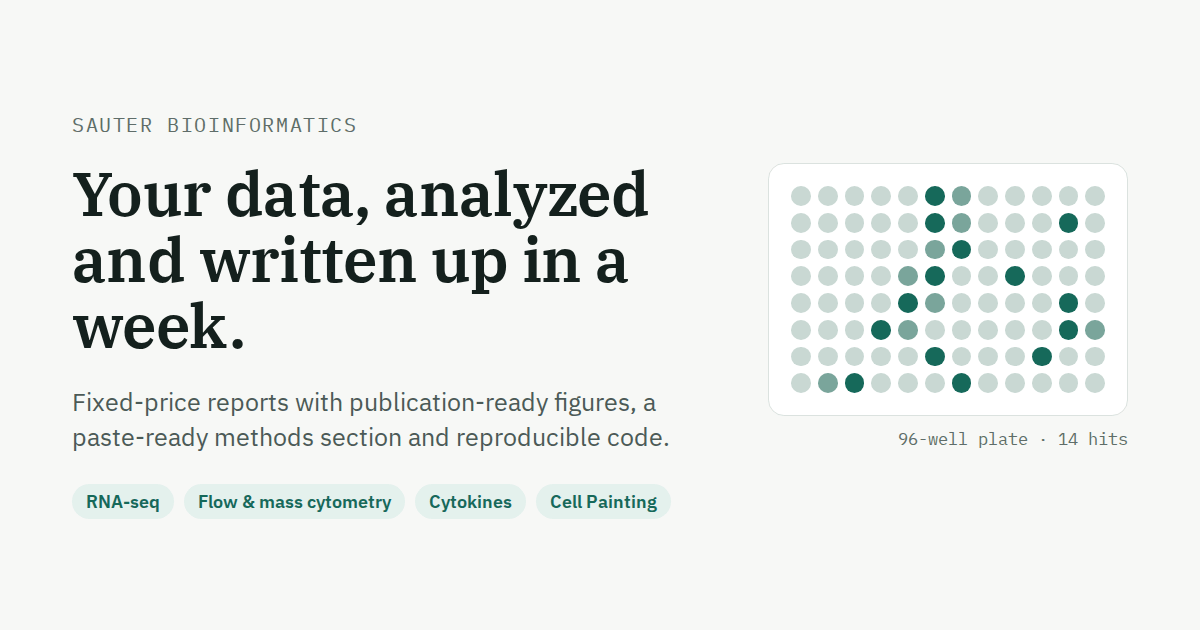
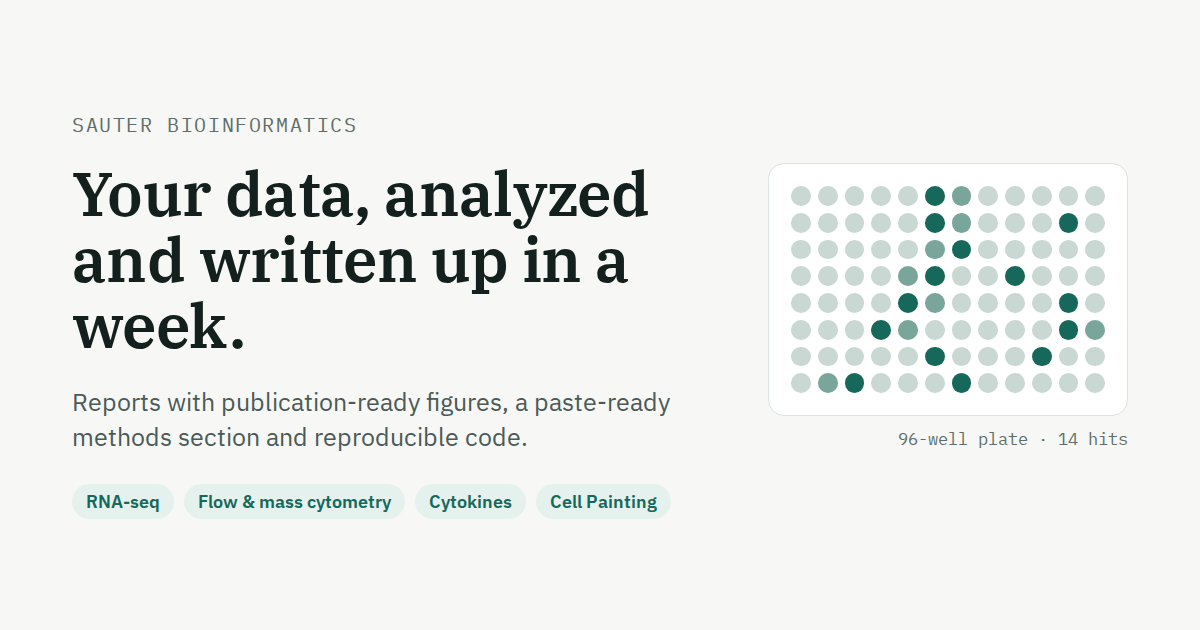
Bioinformatics: remove all pricing; keep the services, examples and contact
Price table becomes 'Typical projects' (scope only); 'fixed-price' and 'fixed
quote' wording removed from the page, its search/preview text and image, and the
home and Projects lines.

Claude-Session: https://claude.ai/code/session_01YNfdjQmtG3bPi1ARogC2dZ

Changed region(s): [[0.0617, 0.6032, 0.555, 0.7238]]

diff --git a/bioinformatics/index.html b/bioinformatics/index.html
@@ -5,9 +5,9 @@
 <meta name="viewport" content="width=device-width, initial-scale=1, viewport-fit=cover">
 <title>Sauter Bioinformatics · Jake Sauter</title>
 <meta name="author" content="Jake Sauter">
-<meta name="description" content="Independent analysis for sequencing, cytometry, cytokine and high-content imaging data: fixed-price reports with publication-ready figures and methods.">
+<meta name="description" content="Independent analysis for sequencing, cytometry, cytokine and high-content imaging data: reports with publication-ready figures and methods.">
 <meta property="og:title" content="Sauter Bioinformatics">
-<meta property="og:description" content="Fixed-price analysis for RNA-seq, cytometry, cytokine and high-content imaging experiments, with example reports.">
+<meta property="og:description" content="Analysis for RNA-seq, cytometry, cytokine and high-content imaging experiments, with example reports.">
 <meta property="og:type" content="website">
 <meta property="og:url" content="https://jakesauter.github.io/bioinformatics/">
 <meta property="og:image" content="https://jakesauter.github.io/bioinformatics/og.png">
@@ -80,7 +80,7 @@
   src: url(fonts/ibm-plex-serif-600-latin.woff2) format('woff2');
   unicode-range: U+0000-00FF, U+0131, U+0152-0153, U+02BB-02BC, U+02C6, U+02DA, U+02DC, U+0304, U+0308, U+0329, U+2000-206F, U+20AC, U+2122, U+2191, U+2193, U+2212, U+2215, U+FEFF, U+FFFD;
 }
-/* Layout: a single reading column; a full-width band for the assay grid; example reports as three equal cards; a plain price table. */
+/* Layout: a single reading column; a full-width band for the assay grid; example reports as three equal cards; a plain table of typical projects. */
 :root{
   --bg:#f7f8f6; --surface:#ffffff; --ink:#14201d; --ink2:#4b5a56; --muted:#5f6d69; --line:#dbe2df;
   --accent:#16695a; --accentbg:#e4f1ed; --well:#c9d8d3;
@@ -145,8 +145,8 @@ footer{font-size:13px;color:var(--muted);max-width:980px;margin:48px auto 0}
     <div>
       <p class="kicker">Independent bioinformatics analysis</p>
       <h1>Your data, analyzed and written up in a week.</h1>
-      <p class="lede">Fixed-price analysis for sequencing, cytometry, cytokine and high-content imaging experiments. You get publication-ready figures, a methods section you can paste into a paper, and code that reproduces every number.</p>
-      <div class="cta"><a class="btn pri" href="#contact">Request a quote</a><a class="btn sec" href="#examples">See example reports</a></div>
+      <p class="lede">Analysis for sequencing, cytometry, cytokine and high-content imaging experiments. You get publication-ready figures, a methods section you can paste into a paper, and code that reproduces every number.</p>
+      <div class="cta"><a class="btn pri" href="#contact">Get in touch</a><a class="btn sec" href="#examples">See example reports</a></div>
     </div>
     <div aria-hidden="true">
       <div class="plate" id="plate"></div>
@@ -178,23 +178,23 @@ footer{font-size:13px;color:var(--muted);max-width:980px;margin:48px auto 0}
     <h2>How it works</h2>
     <ol class="steps">
       <li><h3>Tell me about the experiment</h3><p>Design, sample counts, file types and the question you need answered.</p></li>
-      <li><h3>Fixed quote within a day</h3><p>Scope, price and delivery date in writing before any work starts.</p></li>
+      <li><h3>A plan within a day</h3><p>Scope, deliverables and delivery date in writing before any work starts.</p></li>
       <li><h3>Report in about a week</h3><p>Figures, tables, methods text and code, with quality problems flagged early.</p></li>
       <li><h3>Review call</h3><p>Thirty minutes to walk through results, plus one round of changes.</p></li>
     </ol>
   </section>
 
   <section>
-    <h2>Pricing</h2>
+    <h2>Typical projects</h2>
     <div class="tw"><table>
-      <thead><tr><th>Project</th><th>Typical scope</th><th>From</th></tr></thead>
+      <thead><tr><th>Project</th><th>Typical scope</th></tr></thead>
       <tbody>
-        <tr><td>Bulk RNA-seq</td><td>Up to 2 contrasts, QC, DE, pathways, report</td><td>$1,500</td></tr>
-        <tr><td>Single-cell RNA-seq</td><td>Up to 8 samples, clustering, annotation, comparisons</td><td>$3,000</td></tr>
-        <tr><td>Flow or mass cytometry</td><td>One experiment, gating or clustering, statistics</td><td>$1,500</td></tr>
-        <tr><td>Cytokine panel</td><td>One panel, QC, curves, group statistics</td><td>$900</td></tr>
-        <tr><td>Cell Painting or high-content</td><td>Quoted per plate set and starting point</td><td>Quote</td></tr>
-        <tr><td>Consulting and custom pipelines</td><td>Hourly</td><td>$135 / hr</td></tr>
+        <tr><td>Bulk RNA-seq</td><td>Up to 2 contrasts, QC, DE, pathways, report</td></tr>
+        <tr><td>Single-cell RNA-seq</td><td>Up to 8 samples, clustering, annotation, comparisons</td></tr>
+        <tr><td>Flow or mass cytometry</td><td>One experiment, gating or clustering, statistics</td></tr>
+        <tr><td>Cytokine panel</td><td>One panel, QC, curves, group statistics</td></tr>
+        <tr><td>Cell Painting or high-content</td><td>Scoped per plate set and starting point</td></tr>
+        <tr><td>Consulting and custom pipelines</td><td>Pipeline building, method choices, review of existing analyses</td></tr>
       </tbody>
     </table></div>
   </section>
@@ -216,8 +216,8 @@ footer{font-size:13px;color:var(--muted);max-width:980px;margin:48px auto 0}
   </section>
 
   <section id="contact" class="contact col">
-    <h2>Request a quote</h2>
-    <p>Send a short description of the experiment and the data you have. You'll get a fixed quote within one business day.</p>
+    <h2>Get in touch</h2>
+    <p>Send a short description of the experiment and the data you have. You'll get a plan within one business day.</p>
     <div class="cta"><a class="btn pri" href="/contact/">Email or call me</a><a class="btn sec" href="https://www.linkedin.com/in/jakesauter/">Message on LinkedIn</a></div>
   </section>
 </main>

diff --git a/projects/index.html b/projects/index.html
@@ -116,7 +116,7 @@ Molecular Classification Capstone &ndash; Classification of ALL vs AML cancer ty
       <h1>Projects</h1>
     </header>
 
-    <p><a href="/bioinformatics/"><i class="fas fa-dna" aria-hidden="true"></i> Bioinformatics analysis &ndash; Fixed-price analysis for RNA-seq, cytometry, cytokine and high-content imaging data, with three example reports</a></p>
+    <p><a href="/bioinformatics/"><i class="fas fa-dna" aria-hidden="true"></i> Bioinformatics analysis &ndash; Analysis for RNA-seq, cytometry, cytokine and high-content imaging data, with three example reports</a></p>
     <p><a href="/technical-precision/"><i class="fas fa-cogs" aria-hidden="true"></i> Technical Precision &ndash; Website for my family's machine shop in Poughkeepsie, NY, with interactive 3D example parts</a></p>
     <p><a href="https://jakesauter.github.io/Jake-Sauter-Language-Learning-App/"><i class="fas fa-language" aria-hidden="true"></i> Polylang &ndash; A phone app for learning Taishanese, Cantonese, Mandarin and more, word by word</a></p>
     <p>Coursework Site &ndash; Coursework from various programming and AI courses at SUNY Oswego (no longer online)</p>

diff --git a/index.html b/index.html
@@ -141,7 +141,7 @@
       <a href="https://jakesauter.github.io/Jake-Sauter-Language-Learning-App/"><i class="fas fa-language" aria-hidden="true"></i> Polylang</a> &ndash; learn Taishanese, Cantonese, Mandarin and more, word by word
     </p>
     <p style="margin-top: 0.8rem; font-size: 1.6rem; line-height: 1.5;">
-      <a href="/bioinformatics/"><i class="fas fa-dna" aria-hidden="true"></i> Bioinformatics analysis</a> &ndash; fixed-price RNA-seq, cytometry, cytokine and imaging reports
+      <a href="/bioinformatics/"><i class="fas fa-dna" aria-hidden="true"></i> Bioinformatics analysis</a> &ndash; RNA-seq, cytometry, cytokine and imaging analysis reports
     </p>
     <p style="margin-top: 0.8rem; font-size: 1.6rem; line-height: 1.5;">
       <a href="/technical-precision/"><i class="fas fa-cogs" aria-hidden="true"></i> Technical Precision</a> &ndash; my family's machine shop in Poughkeepsie, NY: marine parts, CNC, welding, powder coating
